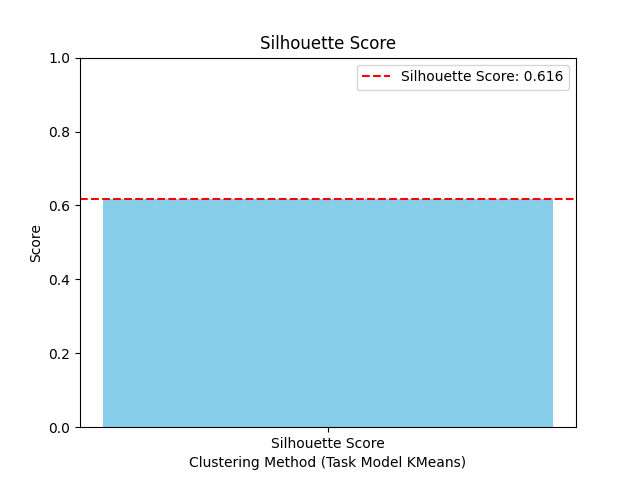
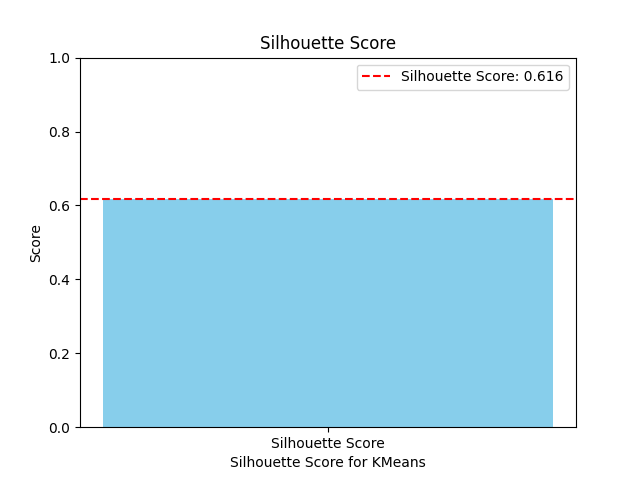
Minor refactor

Changed region(s): [[0.3125, 0.9375, 0.7188, 1.0]]

diff --git a/Project/_4visualization_and_evaluation.py b/Project/_4visualization_and_evaluation.py
@@ -41,11 +41,11 @@ class VisualizationAndEvaluation():
         progress.update(1)
 
         progress.set_postfix_str(steps[2])
-        self.plot_silhouette(X_scaled, df['KMeansCluster'], "KMeans", presentation)
+        self.plot_silhouette(X_scaled, df['KMeansCluster'], "KMeans", "KMeans", presentation)
         progress.update(1)
 
         progress.set_postfix_str(steps[3])
-        self.plot_silhouette(X_scaled, df['DBSCANCluster'], "DBScan", presentation)
+        self.plot_silhouette(X_scaled, df['DBSCANCluster'], "DBScan", "DBScan", presentation)
         progress.update(1)
 
         progress.set_postfix_str(steps[4])
@@ -85,7 +85,7 @@ class VisualizationAndEvaluation():
         if presentation:
             self.add_plot_to_slide(filepath, "Elbow Method for KMeans", presentation)
 
-    def plot_silhouette(self, X, labels, title, presentation=None):
+    def plot_silhouette(self, X, labels, title, model, presentation=None):
         """Plot the silhouette score for the clustering.
 
         Args:
@@ -101,7 +101,7 @@ class VisualizationAndEvaluation():
         plt.ylim(0, 1)
         plt.title("Silhouette Score")
         plt.ylabel("Score")
-        plt.xlabel("Clustering Method (Task Model KMeans)")
+        plt.xlabel(f"Silhouette Score for {model}")
         plt.axhline(y=score, color='r', linestyle='--', label=f'Silhouette Score: {score:.3f}')
         plt.legend()
         filepath = f"Results/VisualizationAndEvaluation/{title.lower().replace(' ', '_')}_silhouette_plot.png"
